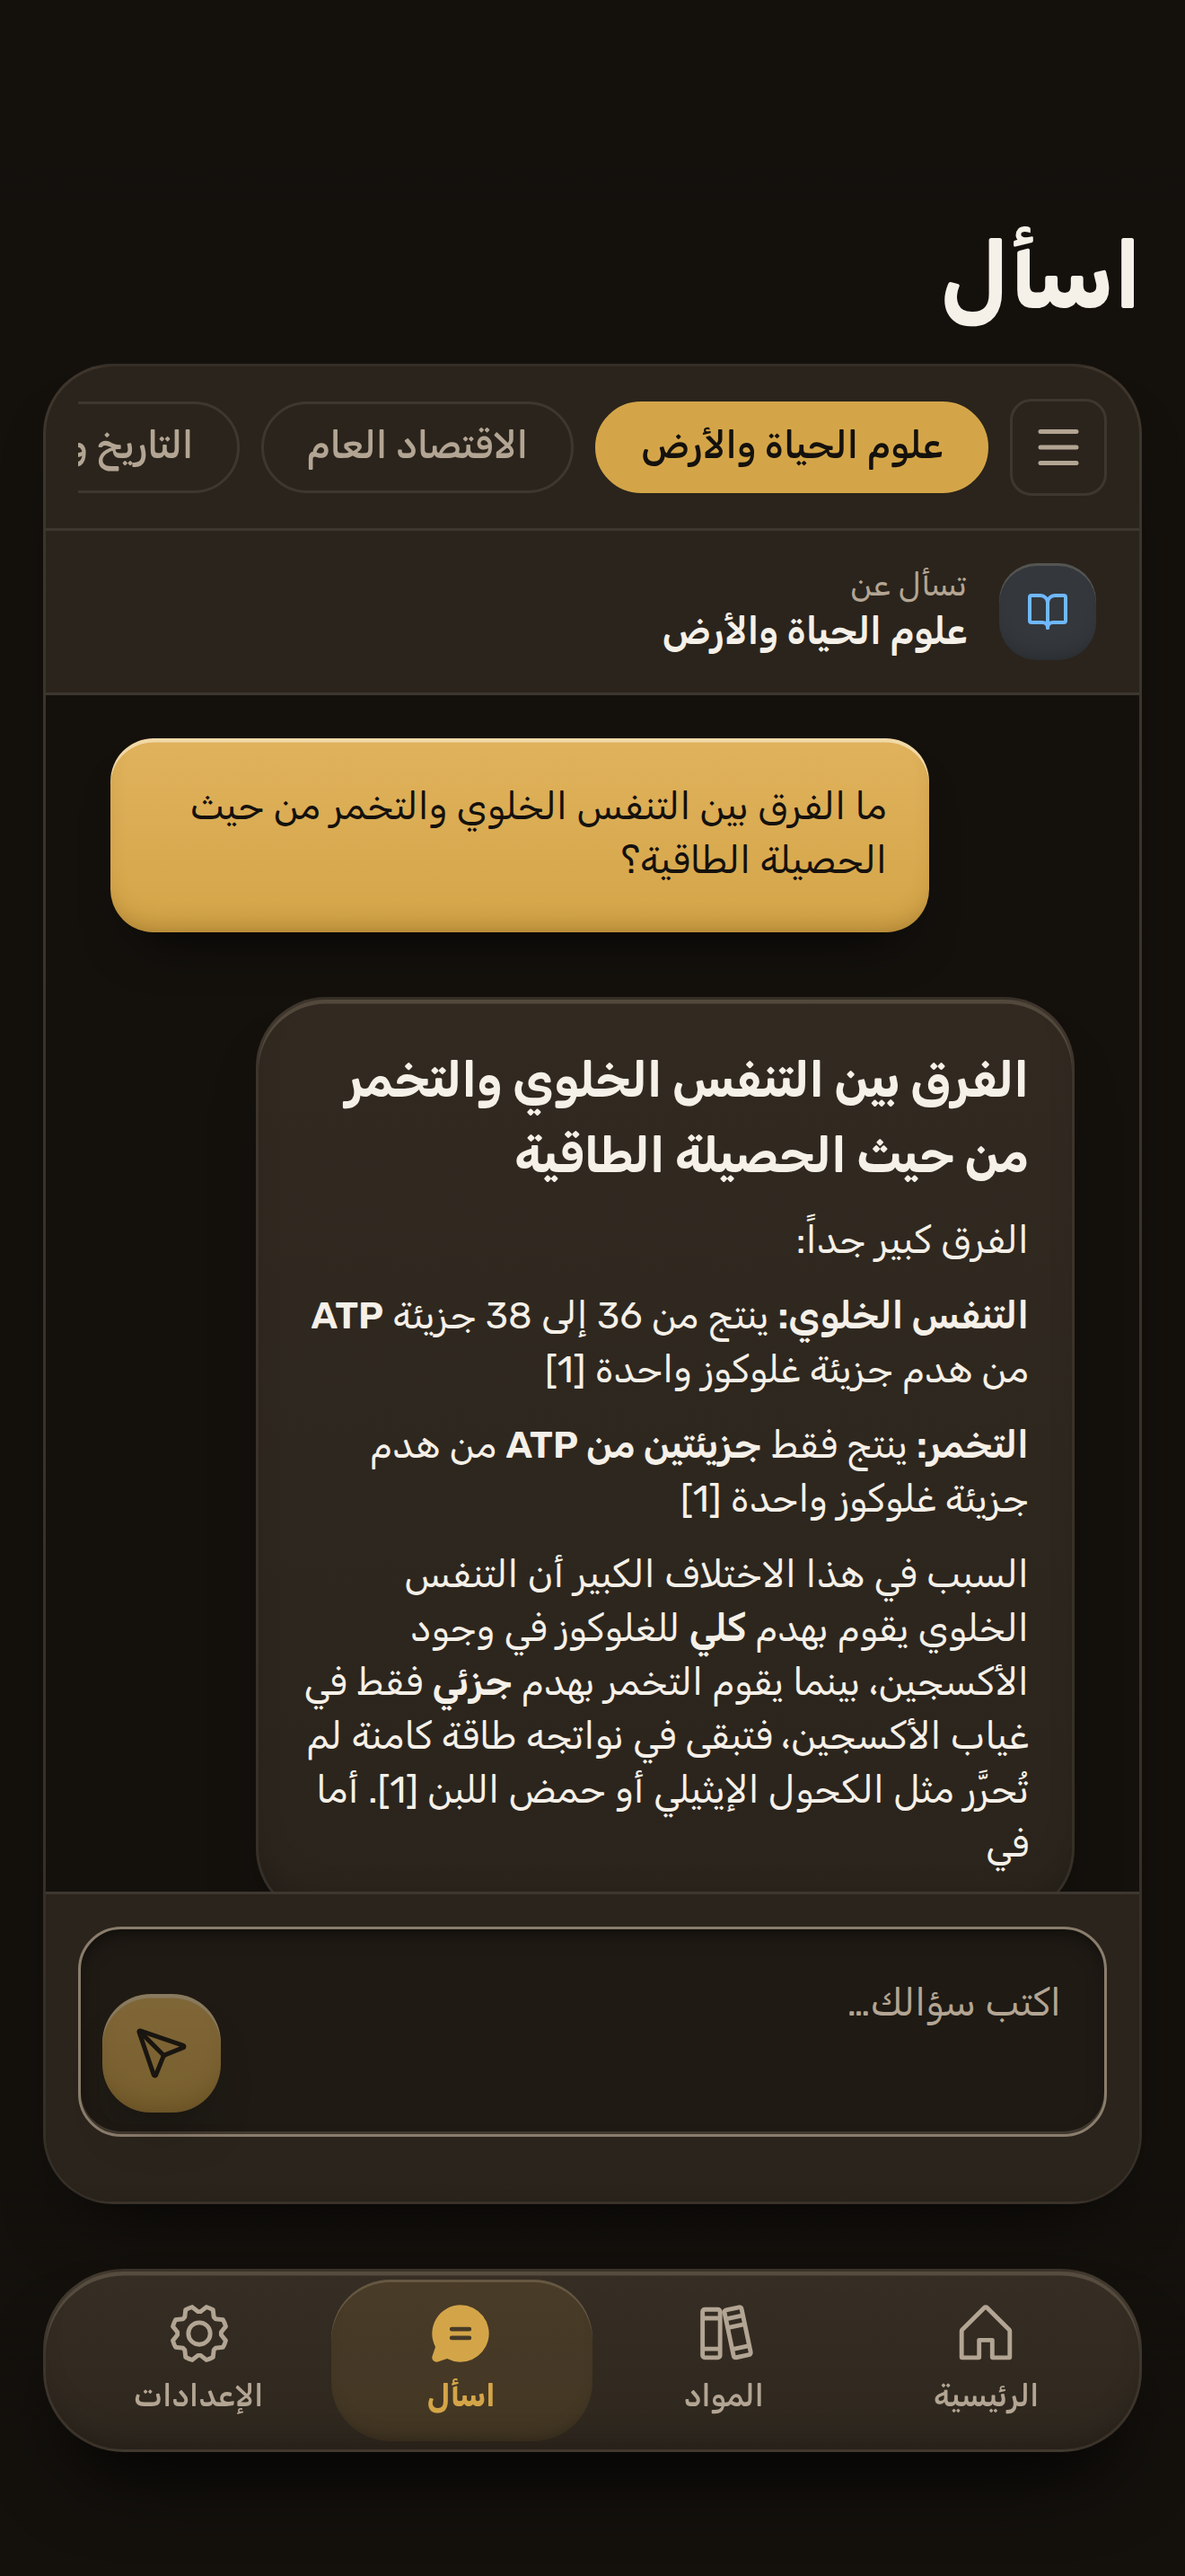
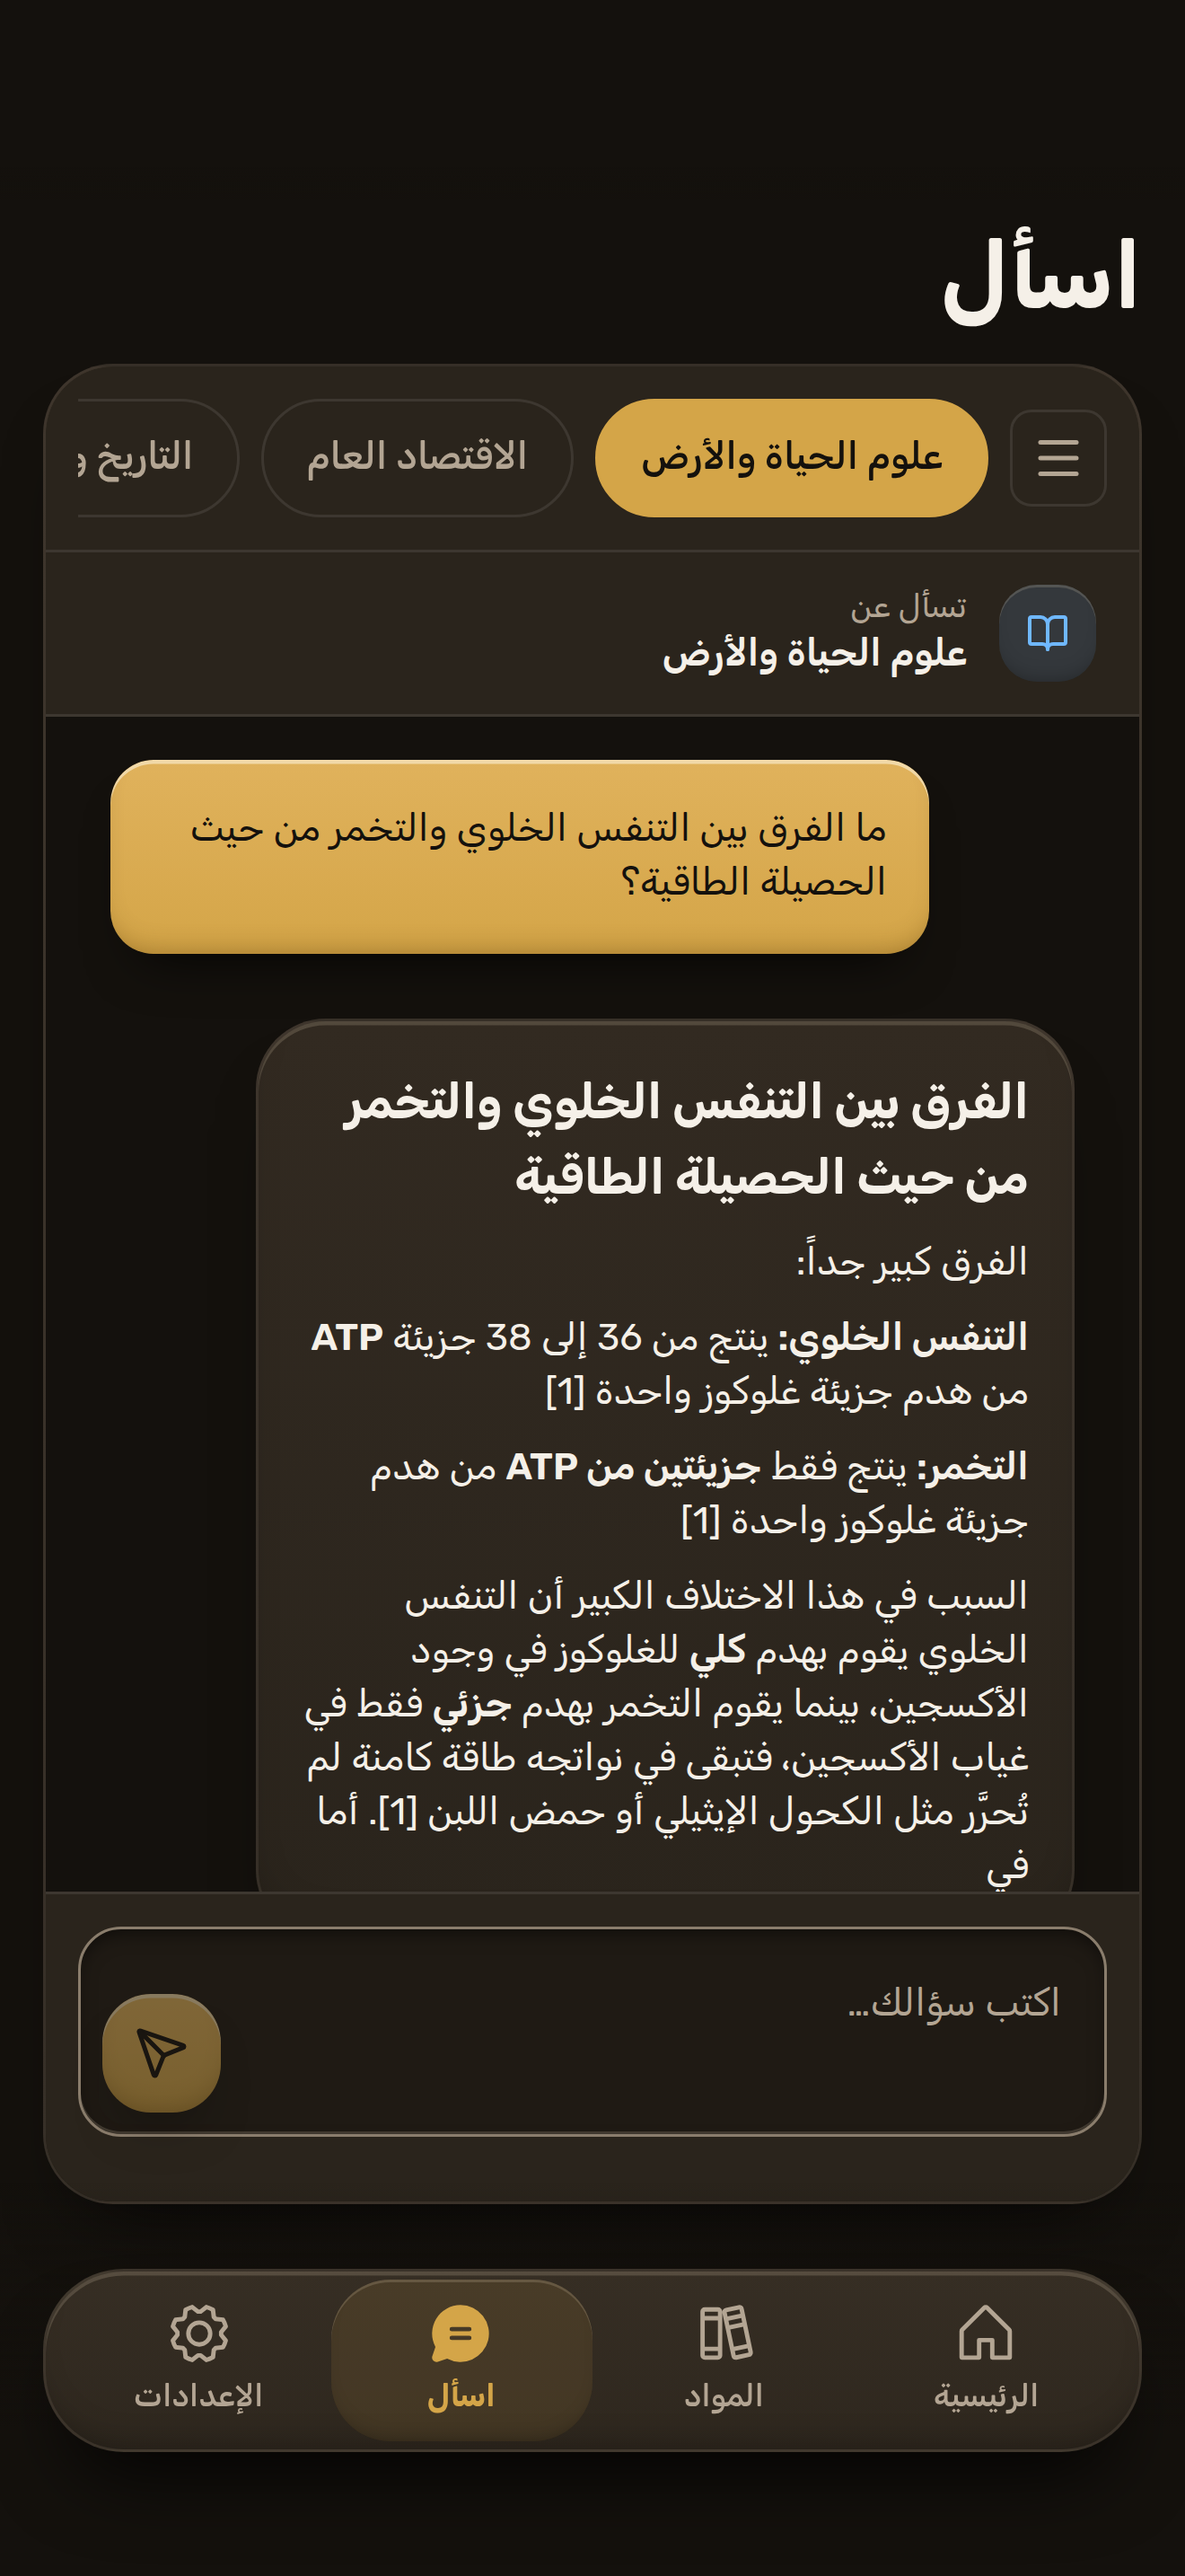
docs(review): the Ask chip renders before and after; the fit check expects the taller subject bar; Section 7 block
The four review renders of the Ask screen (ar and en, dark; before and
after the 44 pt chips) under docs/design/ask-chips/, from the PR's own
redesign-built run 38810697192; the seven drifted renders of
docs/store/fix-renders-2/ refreshed from the same run.

render-fix2.mjs: the "known open item" exemption for the 34 pt chips is
gone (the 44 x 44 target check now covers them), and the Store-Fix-2 fit
calibration expects the device's list height less the 8 px the taller
subject bar takes.

docs/PROGRESS.md Section 7: one block (operator decision, chips, the light
theme answer, the S7d live runs 38795422677 and 38807930752, the
38784076556 watch item); rows 42, 69 and 81 untouched.

diff --git a/docs/PROGRESS.md b/docs/PROGRESS.md
@@ -451,6 +451,15 @@ bodies total 37,095 bytes. **This retires the Option C frozen-tail invariant by 
 existed only to police a boundary inside an unreviewable single line, and the append-only rule above
 supersedes it. No bespoke hash is needed for future updates: the diff is the proof.
 
+### 2026-10-15 - The operator named on the legal pages; Ask's subject chips 44 pt; the S7d live runs recorded
+
+**No row is edited** (rows 42, 69 and 81 untouched). No TestFlight or other macOS dispatch; no ios-smoke run is triggered (nothing under ios/, android/ or native/ changed).
+
+- **Operator (owner decision 2026-10-15):** the privacy policy and the terms name Abdelfettah Amellah, the individual seller of this account, as the person who operates KnowFlow. `src/app/[locale]/(site)/privacy/page.tsx` line 15 ("an independent developer" replaced); `src/app/[locale]/(site)/terms/page.tsx` line 13 (date to October 2026) and line 16 (one sentence added to Acceptance of Terms). Name only, no address or phone; the support address is unchanged. Both pages are English on /ar as before, so no Arabic text exists to change; the native twins re-export them; no structured data, contact page or docs/store file names the operator. The wording rule finds nothing in the new sentences.
+- **Ask subject chips 44 pt:** the `SubjectChips` buttons carry `inline-flex min-h-11 items-center`. Measured on the render of /preview/ask?view=capture (1320 x 2868 at 3x): the selected chip spans 102 px (34.0 pt) before and 132 px (44.0 pt) after, in ar and en alike, and the render audit's 44 x 44 target check passes on every chip, so its "known open item" exemption for the 34 pt chips is removed from `scripts/redesign-built/render-fix2.mjs`. The subject bar is 8 px taller, so the Ask list is 8 px shorter than the device capture ar/04 that the Store-Fix-2 fit measurement reproduces; that check now expects the device's list less 8 (`CHIP_BAR_GROWTH`). The four review renders are committed under `docs/design/ask-chips/` as {ar,en}-dark-ask-{before,after}.png (docs/design is where the other review renders live, so they sit together rather than in a new docs/review tree), and the seven drifted renders of `docs/store/fix-renders-2/` are refreshed from the PR's own redesign-built run 38810697192. The uploaded store shot ar/04 still shows the 34 pt chips; the listing is not re-captured for this.
+- **Light theme, report only:** the signed-in run never leaves the dark theme (the app defaults to dark through the kf-theme cookie and no step taps Appearance), so its white-strip check (the bottom band under the tab bar must be #14110d) proves nothing for light mode. One reading would: in Settings tap the Light control of the theme toggle, take the home-bottom shot and run the same band check against the light page colour #faf7f2. Not added here.
+- **S7d live runs today:** english 38795422677 (the en-US App Info localization created; the version localization 62a4db70 auto-created by App Store Connect and patched; read-back hashes equal to the approved file) and screenshots 38807930752 (en-US set 7dbe6e42 with five COMPLETE screenshots, checksums equal to the files; ar-SA logged unchanged with zero writes). Watch item: the relayed signed-in run 38784076556 for 7e2a1e2 failed 1 of 48 readings on a 21.2 s first byte for the static /ar/contact; every content reading passed; not re-run.
+
 ### 2026-10-15 - S7d: the English listing live on App Store Connect; the screenshots mode no longer deletes an approved set for nothing
 
 **No row is edited** (rows 42, 69 and 81 untouched). This PR dispatches nothing and runs no macOS job (scripts/asc and docs only).
